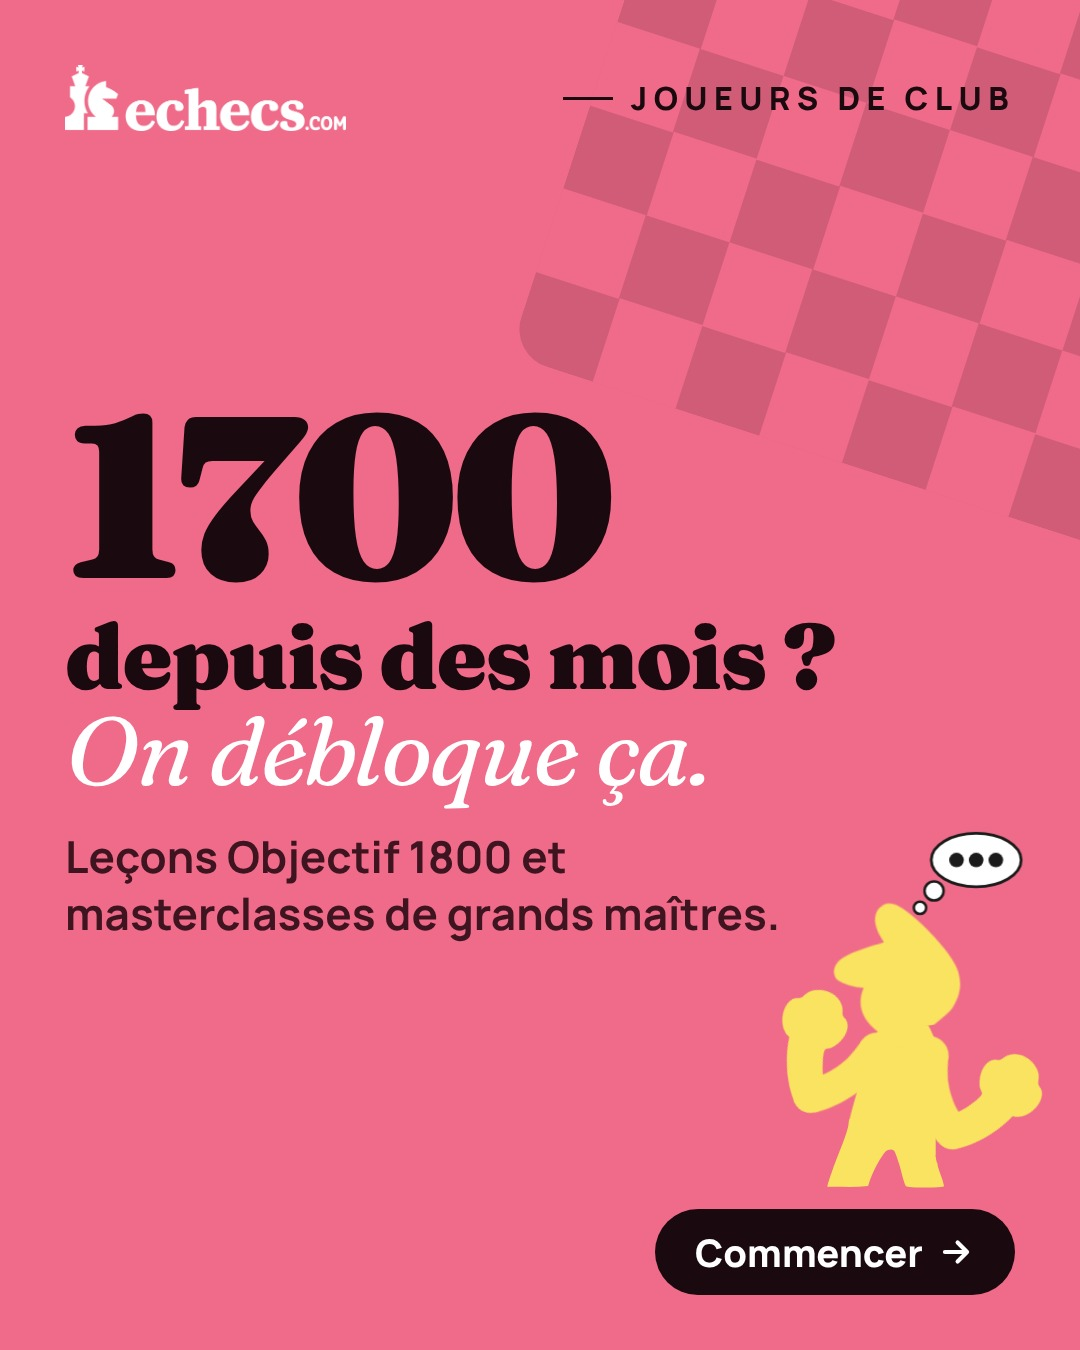
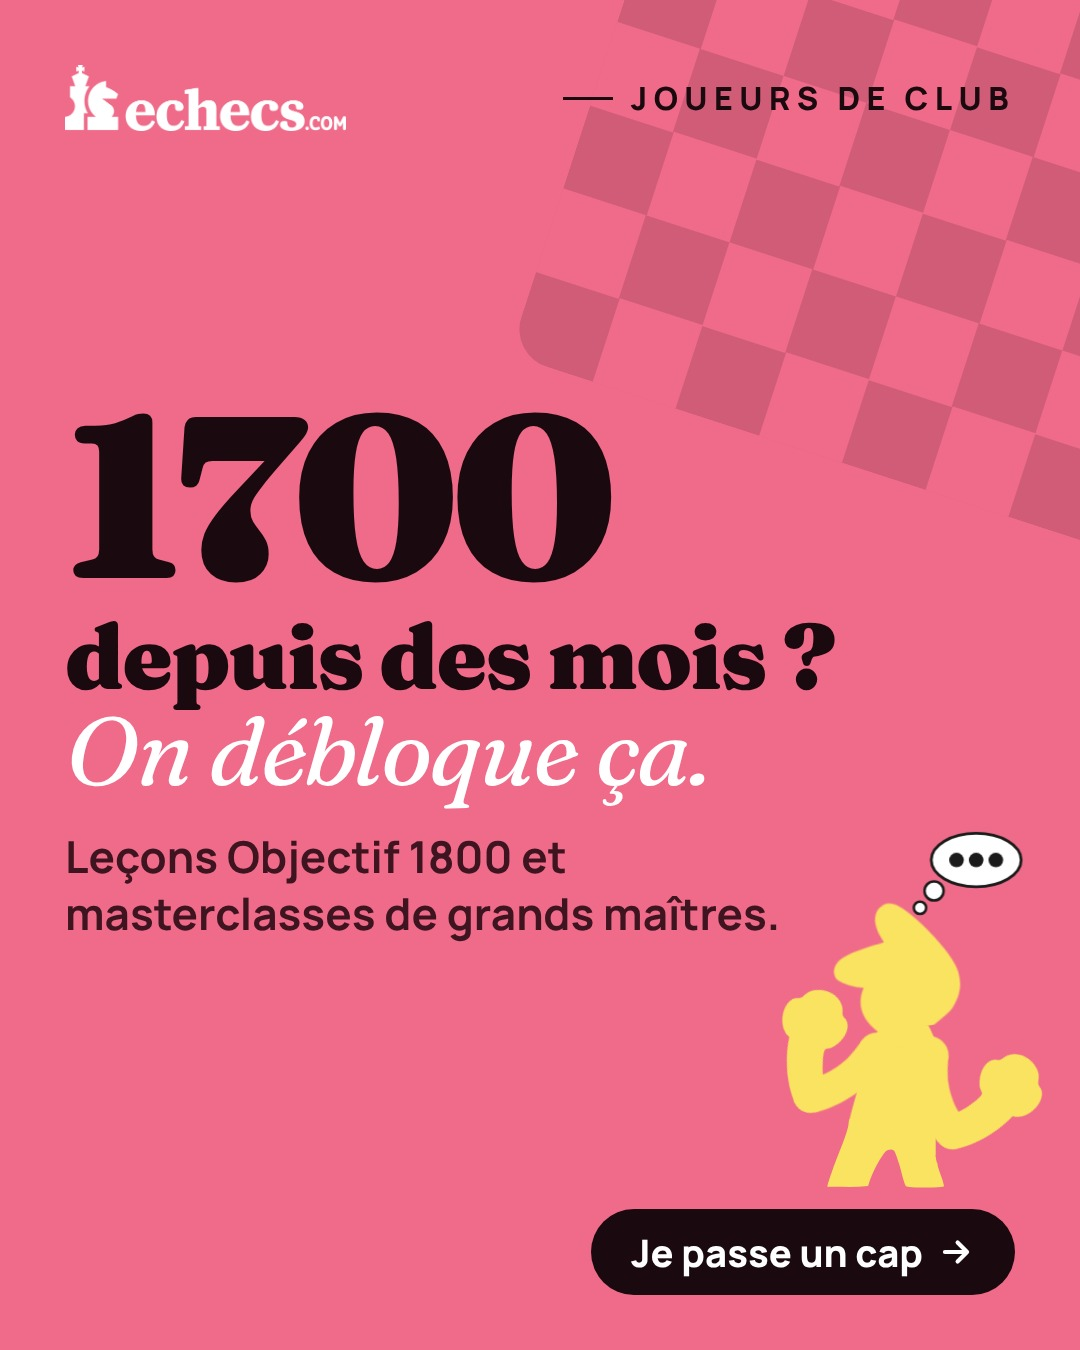
Campagne 2000 : bouton « Je passe un cap » sur les posts 96-97, titre « Objectifs 1600 et 1800 » dans la vidéo
Claude-Session: https://claude.ai/code/session_01BbhUUMNCTREacxpKGo9DaP

Changed region(s): [[0.55, 0.8711, 0.8556, 0.9644]]

diff --git a/video/src/visuels.html b/video/src/visuels.html
@@ -255,7 +255,7 @@ const T = {
   // Accroche d'un pan de l'académie, avec le visuel du motion recadré
   accroche: it => head(it.k) + `<main class="${land || tall ? "" : "serre"}"><div class="txt">${title(it)}</div><div class="vis">${shot(it.shot)}</div></main>` + foot(),   // pas de mascotte en plus : la capture du motion en a souvent déjà une
   // Gros chiffre
-  chiffre: it => head(it.k) + `<main><div class="txt"><div class="big" style="${it.n.replace(/<[^>]+>|&#8239;/g, "").length > 4 ? `font-size:${tall ? 24 : 17}rem` : ""}">${it.n}</div><div class="t" style="font-size:9rem;margin-top:2rem">${it.t}<span class="e" style="font-size:9.6rem">${it.e}</span></div>${it.s ? `<div class="s">${it.s}</div>` : ""}</div></main>` + foot()
+  chiffre: it => head(it.k) + `<main><div class="txt"><div class="big" style="${it.n.replace(/<[^>]+>|&#8239;/g, "").length > 4 ? `font-size:${tall ? 24 : 17}rem` : ""}">${it.n}</div><div class="t" style="font-size:9rem;margin-top:2rem">${it.t}<span class="e" style="font-size:9.6rem">${it.e}</span></div>${it.s ? `<div class="s">${it.s}</div>` : ""}</div></main>` + foot(it.btn)
     + pose(it.pose, mSize(1.05) + (land ? "right:8rem;bottom:15rem;" : `right:5rem;bottom:${15 + PB}rem;`)),
   // Problème d'échecs (engagement)
   puzzle: it => head(it.k) + `<main class="${land || tall ? "" : "serre"}"><div class="txt">${title(it)}</div><div class="vis">${board(it.pos, { arrow: it.arrow, hl: it.hl, coords: true, style: "height:100%" })}</div></main>` + foot(it.arrow ? "Je m'entraîne" : "Voir la solution")
@@ -274,7 +274,7 @@ const T = {
   // Sortie de la revue
   revue: it => head(it.k) + `<main><div class="txt">${title(it)}</div><div class="vis"><img class="cover" src="../assets/captures/ee/revue-779-couv.png" style="${land ? "" : tall ? "height:90rem" : "height:56rem"}"><div class="badge" style="${land ? "right:4rem;top:0" : "right:8rem;top:0"}"><small>Numéro</small><b>779</b><small>Octobre 2026</small></div></div></main>` + foot("Lire la revue"),
   // Tournois
-  event: it => head(it.k) + `<main><div class="txt">${title(it)}<div class="facts">${it.facts.map(f => `<span>${f}</span>`).join("")}</div></div>${land ? `<div class="vis"></div>` : ""}</main>` + foot("Je m'inscris")
+  event: it => head(it.k) + `<main><div class="txt">${title(it)}<div class="facts">${it.facts.map(f => `<span>${f}</span>`).join("")}</div></div>${land ? `<div class="vis"></div>` : ""}</main>` + foot(it.btn || "Je m'inscris")
     + pose(it.pose, mSize(1.05) + (land ? "right:8rem;bottom:15rem;" : `right:5rem;bottom:${15 + PB}rem;`), it.white),
   // Identité : avatar
   "id-avatar": it => `<div class="avatar"><img src="${MARK}"></div>`,

diff --git a/video/src/visuels-data.js b/video/src/visuels-data.js
@@ -117,8 +117,8 @@ window.VISUELS = [
   { id: "94-probleme-fou-h7", tpl: "puzzle", theme: "nuit", k: "Problème · Objectif 1800", t: "Les Blancs jouent", e: "et gagnent.", s: "Un grand classique des attaques sur le Roque. Ta réponse en commentaire.", pos: FOUH7, pose: "menton" },
   { id: "95-solution-fou-h7", tpl: "puzzle", theme: "menthe", k: "La solution", t: "1.Fxh7+ !", e: "le sacrifice grec.", s: "Après 1…Rxh7 2.Cg5+, la Dame arrive en h5.", pos: FOUH7_OK, hl: ["d3", "h7"], arrow: ["d3", "h7"], pose: "hourra" },
 
-  { id: "96-plafond-1700", tpl: "chiffre", theme: "rose", k: "Joueurs de club", n: "1700", t: "depuis des mois ?", e: "On débloque ça.", s: "Leçons Objectif 1800 et masterclasses de grands maîtres.", pose: "menton" },
-  { id: "97-lecons-1800", tpl: "event", theme: "nuit", k: "Objectif 1800", t: "Des leçons", e: "de joueur de club.", facts: ["La triangulation", "La défense de Vancura", "L’initiative"], pose: "reflexion" },
+  { id: "96-plafond-1700", btn: "Je passe un cap", tpl: "chiffre", theme: "rose", k: "Joueurs de club", n: "1700", t: "depuis des mois ?", e: "On débloque ça.", s: "Leçons Objectif 1800 et masterclasses de grands maîtres.", pose: "menton" },
+  { id: "97-lecons-1800", btn: "Je passe un cap", tpl: "event", theme: "nuit", k: "Objectif 1800", t: "Des leçons", e: "de joueur de club.", facts: ["La triangulation", "La défense de Vancura", "L’initiative"], pose: "reflexion" },
 
   // ---- Identité de profil (formats propres)
   { id: "id-avatar-nuit", tpl: "id-avatar", theme: "nuit", only: [["avatar-1080x1080", 1080, 1080, "Photo de profil (tous réseaux)"]] },

diff --git a/video/src/index.html b/video/src/index.html
@@ -551,7 +551,7 @@ html.v #grain { width: 100%; height: 100%; }
   <!-- Campagne « Jusqu'à 2000 et plus » : les leçons de niveau 1800 (accroche-6) -->
   <section class="scene" id="club">
     <div style="position:absolute;left:150px;top:96px">
-      <div class="kicker cl-k">Objectif 1800</div>
+      <div class="kicker cl-k">Objectifs 1600 et 1800</div>
       <div class="h2" style="margin-top:26px"><span class="line"><span class="cl-w">Des leçons</span></span><span class="line"><span class="cl-w em">de joueur de club.</span></span></div>
     </div>
     <div id="clgrid" style="position:absolute;left:150px;top:420px;width:1620px;display:grid;grid-template-columns:repeat(3,minmax(0,1fr));gap:26px"></div>
